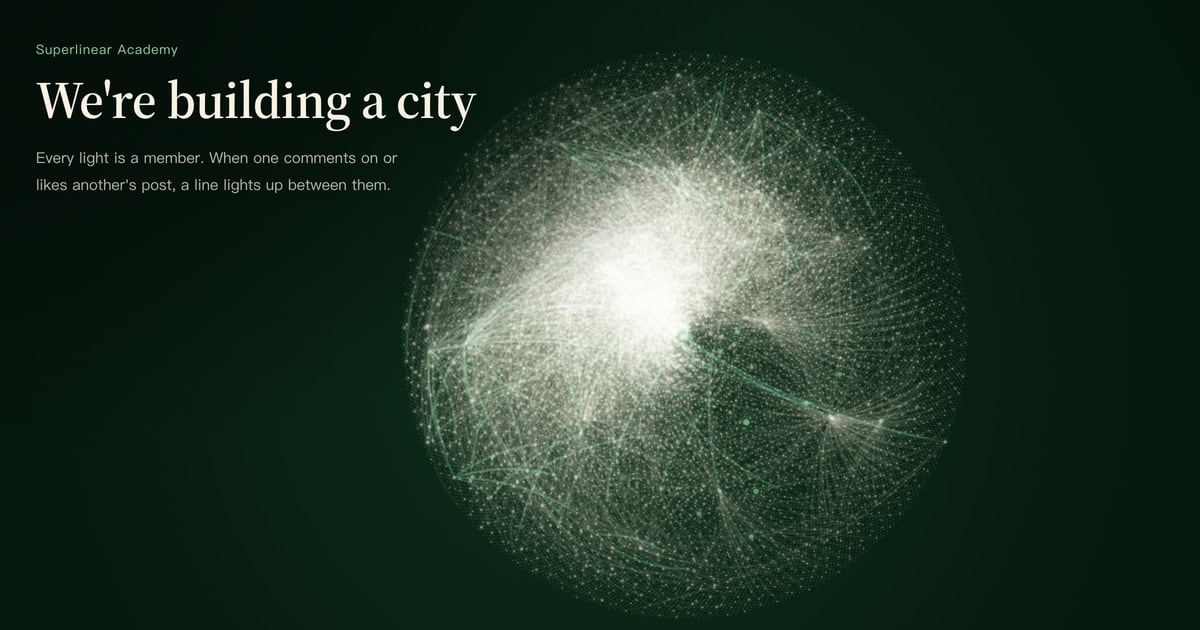
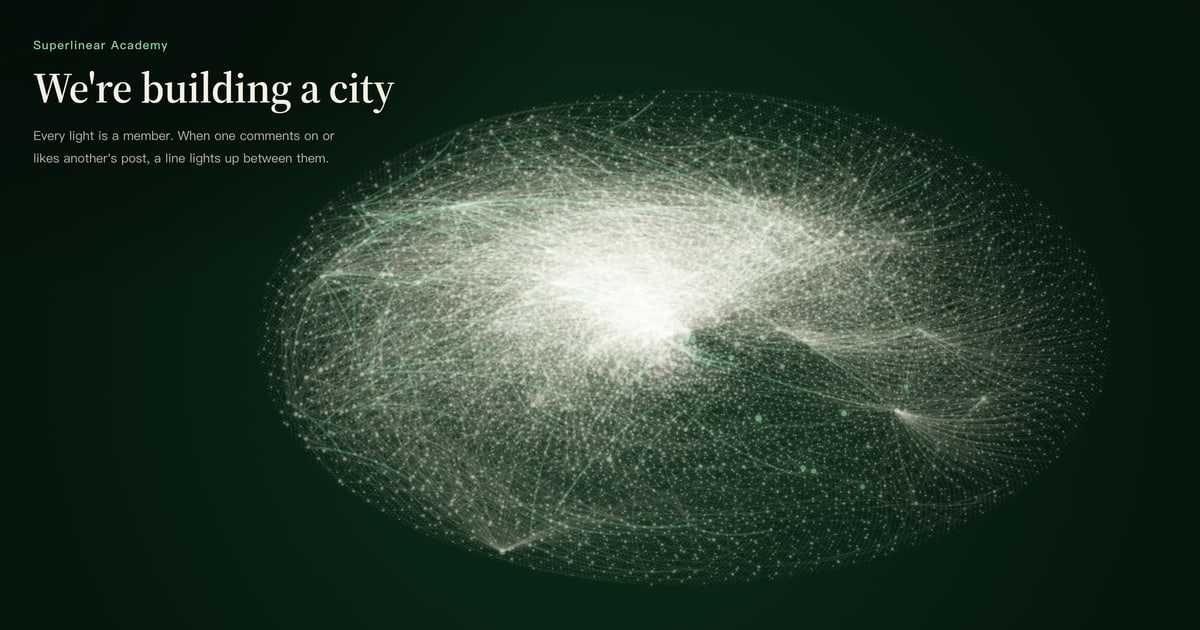
Share city.lizheng.ai as the tilted city, from a script
The share images (og.jpg, og-en.jpg) still showed the top-down ball the
city had before 2026-10-11. They are now the page itself at rest: the
tilted city with the title and the line under it, without the search,
timeline, numbers, join button or names.

pnpm community:og (scripts/community-og.ts) makes both from the live
page, so the images can be made again instead of cropped by hand: a
1440x900 window with reduced motion, the timeline's band cut off at the
bottom, scaled to 1200x630.

Changed region(s): [[0.0308, 0.0603, 0.8942, 0.9651]]

diff --git a/scripts/community-og.ts b/scripts/community-og.ts
@@ -1,0 +1,117 @@
+/**
+ * The share images of city.lizheng.ai: client/public/community-app/og.jpg
+ * (Chinese) and og-en.jpg (English), 1200×630. Each is the page itself at
+ * rest, the tilted city with the title and the line under it, without the
+ * search, the timeline and numbers, the join button or the names on the city.
+ *
+ *   pnpm community:og                     the live page: deployed code, today's data
+ *   pnpm community:og --base=<address>    another copy, e.g. a local `pnpm dev`
+ *                                         at http://localhost:5173/community-app/
+ *
+ * English is the same address with ?lang=en. With reduced motion the page
+ * skips the opening and the city stands still at its starting angle, so the
+ * picture changes only when the page or the data does.
+ *
+ * Playwright is not a dependency of the site, so the module comes from
+ * PLAYWRIGHT_MODULE (default: the copy npx caches on this Mac, as in
+ * scripts/decks/capture_decks.mjs), and the browser from PLAYWRIGHT_CHROME: a
+ * full Chrome for Testing on Metal, since the city needs WebGL2.
+ */
+import { createRequire } from "node:module";
+import os from "node:os";
+import path from "node:path";
+import sharp from "sharp";
+
+const OUT = path.resolve("client/public/community-app");
+const WIDTH = 1200;
+const HEIGHT = 630;
+// The page as it looks on a 1440×900 laptop, where the city clears the title
+// (in smaller or shorter windows the line under the title runs into it). The
+// cut to the image's shape takes off the bottom, the band the page keeps
+// under the city for the timeline (layoutView in client/community-app/main.ts).
+const WINDOW = { width: 1440, height: 900 };
+const CUT = { x: 0, y: 0, width: 1440, height: 756 };
+// Shot at twice the size, for smooth lines and lettering.
+const SCALE = 2;
+
+// Everything but the city, the title and the line under it. The veil behind
+// the title stays; the ones behind the search and the bar go with them.
+const HIDE = `
+.bar, .find, .zoom, .hint, .status, .tip, .panel, .names, .sky-veil {
+  visibility: hidden !important;
+}
+.city::after { content: none !important; }`;
+
+const moduleDir =
+  process.env.PLAYWRIGHT_MODULE ||
+  "/Users/sunyuzheng/.npm/_npx/db89d7302a373f10/node_modules/playwright";
+const { chromium } = createRequire(import.meta.url)(moduleDir);
+const executablePath =
+  process.env.PLAYWRIGHT_CHROME ||
+  path.join(
+    os.homedir(),
+    "Library/Caches/ms-playwright/chromium-1243/chrome-mac-arm64",
+    "Google Chrome for Testing.app/Contents/MacOS/Google Chrome for Testing"
+  );
+
+const base =
+  process.argv.find(arg => arg.startsWith("--base="))?.slice(7) ||
+  "https://city.lizheng.ai/";
+const english = new URL(base);
+english.searchParams.set("lang", "en");
+
+const browser = await chromium.launch({
+  executablePath,
+  args: ["--use-angle=metal", "--enable-gpu", "--ignore-gpu-blocklist"],
+});
+try {
+  for (const [url, file] of [
+    [base, "og.jpg"],
+    [english.href, "og-en.jpg"],
+  ]) {
+    const page = await browser.newPage({
+      viewport: WINDOW,
+      deviceScaleFactor: SCALE,
+      reducedMotion: "reduce",
+    });
+    await page.goto(url);
+    await page.addStyleTag({ content: HIDE });
+    // The loading line goes once the city is drawing (start() in main.ts);
+    // it stays, with another message, when the data or WebGL2 fails.
+    try {
+      await page.waitForSelector("#status.off", {
+        state: "attached",
+        timeout: 60_000,
+      });
+    } catch {
+      throw new Error(
+        `${url}: the city did not start (${await page.textContent("#status")})`
+      );
+    }
+    // The serif title arrives after first paint (fonts.css).
+    await page.waitForFunction(() =>
+      [...document.fonts].some(face =>
+        /Noto Serif SC|Source Serif 4/.test(face.family)
+      )
+    );
+    await page.evaluate(async () => {
+      const title = document.querySelector("h1")!;
+      const style = getComputedStyle(title);
+      await document.fonts.load(
+        `${style.fontWeight} ${style.fontSize} ${style.fontFamily}`,
+        title.textContent ?? ""
+      );
+      await document.fonts.ready;
+    });
+    await page.waitForTimeout(1000);
+    const shot = await page.screenshot({ clip: CUT });
+    await page.close();
+    await sharp(shot)
+      .resize(WIDTH, HEIGHT)
+      .jpeg({ quality: 86, mozjpeg: true })
+      .toFile(path.join(OUT, file));
+    console.log(`✅ ${file} from ${url}`);
+  }
+} finally {
+  await browser.close();
+}

diff --git a/docs/community-graph.md b/docs/community-graph.md
@@ -11,6 +11,7 @@
 | 数据                 | `scripts/build-community-graph.ts`（`pnpm community:graph`），零件在 `scripts/community/`：`circle.ts`（读 Circle）、`graph.ts`（谁和谁连、年轮布局）、`output.ts`（graph.json）、`city.ts`（city.json）、`avatars.ts`（头像图）、`blob.ts`（上传）                                                                                                                                             |
 | 每天更新             | `.github/workflows/community-city.yml`                                                                                                                                                                                                                                                                                                                                                          |
 | 托管                 | `vercel.json`（域名）、`vite.config.ts`（Vite 的第二个入口）、`scripts/prerender-community.ts`（英文页）                                                                                                                                                                                                                                                                                        |
+| 分享图               | `scripts/community-og.ts`（`pnpm community:og`）：从线上页面截出 `client/public/community-app/og.jpg` 和英文页的 `og-en.jpg`                                                                                                                                                                                                                                                                    |
 
 ## 城里有什么
 
@@ -117,6 +118,14 @@ pnpm community:graph --upload
 ## 页面怎么放在 city.lizheng.ai
 
 和 ask.lizheng.ai 一样由主站托管：`client/community-app/` 是 Vite 的第二个入口，构建到 `dist/public/community-app/`；`scripts/prerender-community.ts` 写出英文页 `/community-app/en/`。`vercel.json` 里 `city.lizheng.ai` 的 `/` 和 `/en` 指向这两页，`community.lizheng.ai`（旧名，整站308跳转，旧链接包括 `#某人` 照常能用）和 `www.lizheng.ai/community-app` 都跳到 city.lizheng.ai。两个子域名都加在 Vercel 项目 `lizheng-personal-site_codex` 里（lizheng.ai 的解析在 Vercel，加域名时会自动加记录）。仓库里的目录、脚本和数据路径仍叫 community（`client/community-app/`、`pnpm community:graph`、Blob 的 `community/`），只有对外的地址改了。
+
+## 分享图
+
+链接发到微信、LinkedIn、X 时显示的图：中文页是 `/community-app/og.jpg`，英文页是 `og-en.jpg`（`prerender-community.ts` 写英文页时换的地址），都是1200×630的JPG。画面就是页面静止时的样子：斜着看的城，左上是标题和导语；不带搜索框、时间轴和数字、加入按钮，城上也不显示名字。
+
+`pnpm community:og` 生成这两张：用 Chrome 打开线上页面，窗口1440×900（笔记本屏幕的大小，标题和城互不遮挡；窄一些或矮一些，导语就压到城上），开着「减少动态效果」，所以不播开场、城停在起始的角度；裁掉底部给时间轴留的那一条，缩成1200×630。图里是截图当天线上的数据，数据每天在变，不用每天重截；页面的样子或标题、导语改了，先部署，再重跑、提交、部署一次。`--base=<地址>` 改截别的地址，比如 `pnpm dev` 的 `http://localhost:5173/community-app/`。要用本机的 Playwright 和 Chrome for Testing（路径见脚本开头）。
+
+这两张原来是10-11手工截的俯视圆球，城改成斜着看以后没跟着换，2026-10-24换成脚本截的图。主页 www.lizheng.ai 的分享图是首屏的肖像（`/og/home-zh.jpg`、`home-en.jpg`），不用这两张。
 
 ## 需要立刻把某个人拿掉
 

diff --git a/CHANGELOG.md b/CHANGELOG.md
@@ -1,5 +1,11 @@
 # 更新记录
 
+## 2026-10-24 city.lizheng.ai 的分享图换成斜着看的城
+
+- 链接发出去时显示的分享图（中文页 `/community-app/og.jpg`、英文页 `og-en.jpg`，1200×630）还是10-11以前俯视的圆球。换成现在斜着看的城：左上是「我们在建一座城」和导语，没有搜索框、时间轴、数字和加入按钮，城上不显示名字。
+- 以前这两张是手工截的，现在由 `pnpm community:og`（`scripts/community-og.ts`）从线上页面截：1440×900的窗口、减少动态效果（城停在起始角度）、裁掉底部时间轴那一条、缩成1200×630。页面的样子或文字改了，部署后重跑再部署一次。说明在 `docs/community-graph.md`「分享图」。
+- 主页 www.lizheng.ai 的分享图是首屏肖像那张（`/og/home-*.jpg`），没用这两张，没改。
+
 ## 2026-10-20 《Feels Like Progress》可以买了：书卡片换成亚马逊链接
 
 - 立正 10-20 说书已经上线，可以直接给购买链接。书页 `/book`、`/en/book` 这本书的第一个按钮改成「在Amazon查看」/「View on Amazon」（平装页 `https://www.amazon.com/dp/B0HNQW9N9G`，页上也能选 Kindle），第二个是「免费读开头」/「Read the opening free」（makewhatlasts.com/#read）；去掉「即将出版」/「coming soon」，出版信息写「平装和Kindle电子书」/「Paperback and Kindle」。
